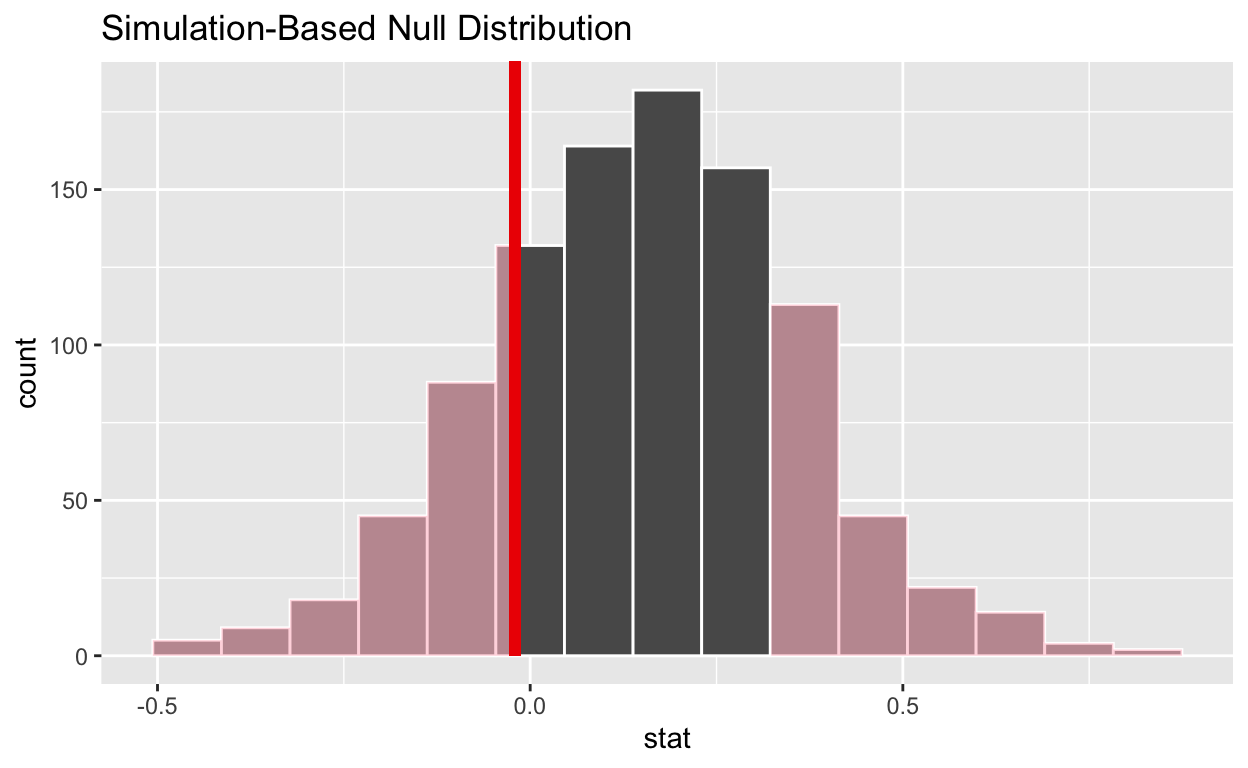
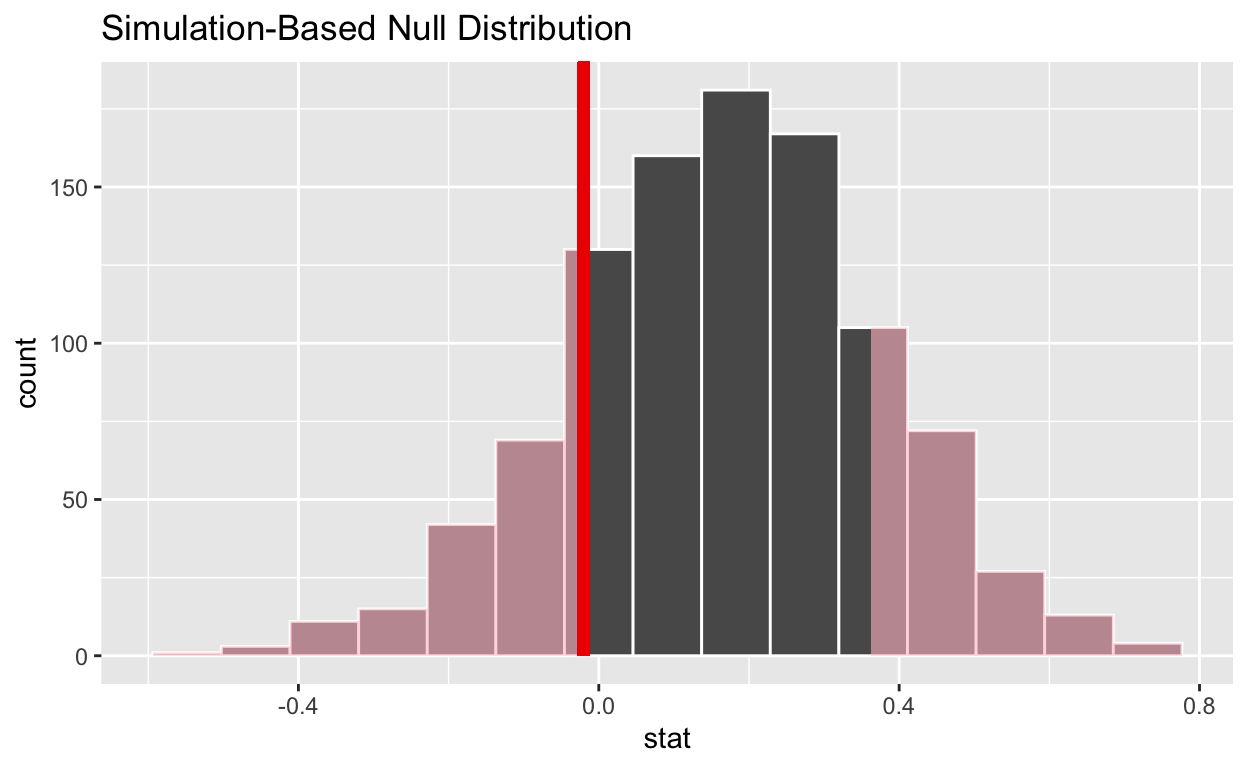
Set seed

diff --git a/index.html b/index.html
@@ -1560,12 +1560,12 @@ code span.wa { color: #5e5e5e; font-style: italic; } /* Warning */
 </thead>
 <tbody>
 <tr class="odd">
-<td style="text-align: right;">0.922</td>
+<td style="text-align: right;">0.97</td>
 </tr>
 </tbody>
 </table>
 </div>
-<p>The hypothesis test reveals that there is a 99% chance that this correlation value could have been created by random chance in a world in which the two values have absolutely no correlation. Given this, we can certainly not reject the null hypothesis, and instead likely should accept it as the most likely outcome of the analysis.</p>
+<p>The hypothesis test reveals that there is a 97% chance that this correlation value could have been created by random chance in a world in which the two values have absolutely no correlation. Given this, we can certainly not reject the null hypothesis, and instead likely should accept it as the most likely outcome of the analysis.</p>
 <h1 id="now-i-will-attempt-the-same-experiment-with-vote-by-party-instead-of-incumbent-vote-percentage-in-order-to-compare-the-strength-of-the-two-relationships.">Now, I will attempt the same experiment with vote by party, instead of incumbent vote percentage in order to compare the strength of the two relationships.</h1>
 <h2 id="gas-prices-and-democratic-party-vote-percentage-correlation">Gas Prices and Democratic Party Vote Percentage Correlation</h2>
 <div class="layout-chunk" data-layout="l-body">
@@ -1598,12 +1598,12 @@ code span.wa { color: #5e5e5e; font-style: italic; } /* Warning */
 </thead>
 <tbody>
 <tr class="odd">
-<td style="text-align: right;">0.396</td>
+<td style="text-align: right;">0.358</td>
 </tr>
 </tbody>
 </table>
 </div>
-<p>This hypothesis test reveals that there is a 42% chance that this correlation or stronger could be created by random chance in a scenario where the two variables have no correlation. Although this p-value is lower than the p-value for incumbent vote percentage, it is still far too high to be considered statistically significant when utilizing the traditional p-value benchmark metric of 0.05. Thus, according to my tests, neither of these relationships can be considered statistically significant and gas prices have not been proven to correlate to incumbent or democratic electoral success.</p>
+<p>This hypothesis test reveals that there is a 36% chance that this correlation or stronger could be created by random chance in a scenario where the two variables have no correlation. Although this p-value is lower than the p-value for incumbent vote percentage, it is still far too high to be considered statistically significant when utilizing the traditional p-value benchmark metric of 0.05. Thus, according to my tests, neither of these relationships can be considered statistically significant and gas prices have not been proven to correlate to incumbent or democratic electoral success.</p>
 <h1 id="code">Code</h1>
 <div class="layout-chunk" data-layout="l-body">
 <div class="sourceCode">
@@ -1648,6 +1648,7 @@ code span.wa { color: #5e5e5e; font-style: italic; } /* Warning */
 <span><span class='va'>correlation_coef</span> <span class='op'>&lt;-</span> <span class='fu'><a href='https://rdrr.io/r/stats/cor.html'>cor</a></span><span class='op'>(</span><span class='va'>elections_and_prices</span><span class='op'>$</span><span class='va'>`gas-price`</span>, <span class='va'>elections_and_prices</span><span class='op'>$</span><span class='va'>incumbent_party_pct</span><span class='op'>)</span></span>
 <span></span>
 <span><span class='fu'>knitr</span><span class='fu'>::</span><span class='fu'><a href='https://rdrr.io/pkg/knitr/man/kable.html'>kable</a></span><span class='op'>(</span><span class='va'>correlation_coef</span><span class='op'>)</span></span>
+<span><span class='fu'><a href='https://rdrr.io/r/base/Random.html'>set.seed</a></span><span class='op'>(</span><span class='fl'>01234</span><span class='op'>)</span></span>
 <span><span class='va'>null_dist</span> <span class='op'>&lt;-</span> <span class='va'>elections_and_prices</span> <span class='op'>|&gt;</span></span>
 <span>  <span class='fu'><a href='https://infer.tidymodels.org/reference/specify.html'>specify</a></span><span class='op'>(</span><span class='va'>incumbent_party_pct</span> <span class='op'>~</span> <span class='va'>`gas-price`</span><span class='op'>)</span> <span class='op'>|&gt;</span></span>
 <span>  <span class='fu'><a href='https://infer.tidymodels.org/reference/hypothesize.html'>hypothesize</a></span><span class='op'>(</span>null <span class='op'>=</span> <span class='st'>"independence"</span><span class='op'>)</span> <span class='op'>|&gt;</span></span>
@@ -1669,6 +1670,7 @@ code span.wa { color: #5e5e5e; font-style: italic; } /* Warning */
 <span><span class='va'>correlation_coef_party</span> <span class='op'>&lt;-</span> <span class='fu'><a href='https://rdrr.io/r/stats/cor.html'>cor</a></span><span class='op'>(</span><span class='va'>elections_and_prices</span><span class='op'>$</span><span class='va'>`gas-price`</span>, <span class='va'>elections_and_prices</span><span class='op'>$</span><span class='va'>D_totalvote_pct</span><span class='op'>)</span></span>
 <span></span>
 <span><span class='fu'>knitr</span><span class='fu'>::</span><span class='fu'><a href='https://rdrr.io/pkg/knitr/man/kable.html'>kable</a></span><span class='op'>(</span><span class='va'>correlation_coef_party</span><span class='op'>)</span></span>
+<span><span class='fu'><a href='https://rdrr.io/r/base/Random.html'>set.seed</a></span><span class='op'>(</span><span class='fl'>01234</span><span class='op'>)</span></span>
 <span><span class='va'>null_dist_party</span> <span class='op'>&lt;-</span> <span class='va'>elections_and_prices</span> <span class='op'>|&gt;</span></span>
 <span>  <span class='fu'><a href='https://infer.tidymodels.org/reference/specify.html'>specify</a></span><span class='op'>(</span><span class='va'>D_totalvote_pct</span> <span class='op'>~</span> <span class='va'>`gas-price`</span><span class='op'>)</span> <span class='op'>|&gt;</span></span>
 <span>  <span class='fu'><a href='https://infer.tidymodels.org/reference/hypothesize.html'>hypothesize</a></span><span class='op'>(</span>null <span class='op'>=</span> <span class='st'>"independence"</span><span class='op'>)</span> <span class='op'>|&gt;</span></span>
